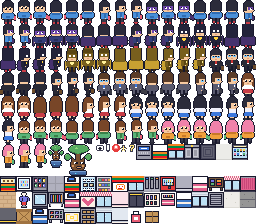
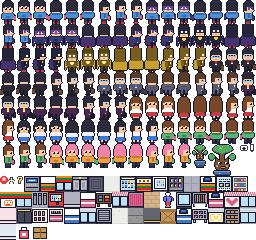
Add streaks, boss pervs, rotating goals, and a daily bounty
Consecutive catches build a streak that multiplies XP and yen up to
2x at five in a row; an escape resets it. Every tenth perv is a boss:
hat and purple suit, a shorter Recording window, faster and twitchier in
the chase, triple reward, announced with a wanted toast when he walks
in. Three mini-goals from a pool of eight sit in the HUD and rotate as
they clear, each paying yen and XP; a daily bounty of fifteen catches
persists in the profile and pays out once per day. Goals only draw
from objectives the player can currently achieve (no box goal without
Strength, no hall goal off arena maps).

Claude-Session: https://claude.ai/code/session_0195Pq8RiCy83eEXiSyRsNrP

diff --git a/src/game/goals.ts b/src/game/goals.ts
@@ -1,0 +1,74 @@
+/**
+ * Engagement layer: catch streaks, three rotating mini-goals, and one daily bounty.
+ * Game code reports events; this module scores them and hands out rewards.
+ */
+import { G } from './state';
+import { L, fmt, lang } from '../i18n';
+import { toast } from './world';
+import { sfx } from '../core/audio';
+import { cur } from './maps';
+import { pick } from '../core/rng';
+
+export type CatchEvent = { secsLeft: number; boss: boolean; byBall: boolean; hops: number; inArena: boolean; streak: number };
+export type GoalEvent = { kind: 'catch'; data: CatchEvent } | { kind: 'hop'; hopsThisChase: number } | { kind: 'smash' };
+
+export interface GoalDef { id: string; target: number; reward: number; xp: number; applies: () => boolean; step: (e: GoalEvent) => number }
+export interface Goal { def: GoalDef; progress: number }
+
+const always = () => true;
+export const POOL: GoalDef[] = [
+  { id: 'catch3', target: 3, reward: 300, xp: 50, applies: always, step: (e) => (e.kind === 'catch' ? 1 : 0) },
+  { id: 'fast', target: 1, reward: 400, xp: 60, applies: always, step: (e) => (e.kind === 'catch' && e.data.secsLeft >= 12 ? 1 : 0) },
+  { id: 'hop3', target: 1, reward: 300, xp: 50, applies: always, step: (e) => (e.kind === 'hop' && e.hopsThisChase >= 3 ? 1 : 0) },
+  { id: 'smash2', target: 2, reward: 350, xp: 60, applies: () => G.stats.strength >= 1 && (G.level >= 3 || cur.obstacleTier >= 1), step: (e) => (e.kind === 'smash' ? 1 : 0) },
+  { id: 'boss', target: 1, reward: 600, xp: 120, applies: always, step: (e) => (e.kind === 'catch' && e.data.boss ? 1 : 0) },
+  { id: 'ball', target: 1, reward: 600, xp: 80, applies: () => G.inv.ball > 0 || G.yen >= 1000, step: (e) => (e.kind === 'catch' && e.data.byBall ? 1 : 0) },
+  { id: 'streak3', target: 1, reward: 500, xp: 80, applies: always, step: (e) => (e.kind === 'catch' && e.data.streak >= 3 ? 1 : 0) },
+  { id: 'arena', target: 1, reward: 500, xp: 80, applies: () => !!cur.arena, step: (e) => (e.kind === 'catch' && e.data.inArena ? 1 : 0) },
+];
+
+export const DAILY_TARGET = 15;
+export const DAILY_REWARD = 1500;
+export type Daily = { day: string; progress: number; done: boolean };
+export const today = (): string => new Date().toISOString().slice(0, 10);
+export function freshDaily(): Daily { return { day: today(), progress: 0, done: false }; }
+
+export const goals = { active: [] as Goal[], daily: freshDaily() };
+
+function drawGoal(exclude: Set<string>): Goal | null {
+  const cands = POOL.filter((d) => !exclude.has(d.id) && d.applies());
+  if (!cands.length) return null;
+  return { def: pick(cands), progress: 0 };
+}
+export function resetGoals(): void {
+  goals.active = [];
+  const used = new Set<string>();
+  for (let i = 0; i < 3; i++) { const g = drawGoal(used); if (!g) break; used.add(g.def.id); goals.active.push(g); }
+  if (goals.daily.day !== today()) goals.daily = freshDaily();
+}
+export function goalText(g: Goal): string { return fmt((L.goals as Record<string, string>)[g.def.id], { t: g.def.target }) + (g.def.target > 1 ? ` ${g.progress}/${g.def.target}` : ''); }
+export function dailyText(): string { return `${L.daily}: ${fmt(L.goals.daily, { t: DAILY_TARGET })} ${Math.min(goals.daily.progress, DAILY_TARGET)}/${DAILY_TARGET}` + (goals.daily.done ? ' ✓' : ''); }
+
+/** Report an event; returns yen + xp awarded so the caller can bank it. */
+export function report(e: GoalEvent, award: (yen: number, xp: number) => void): void {
+  const used = new Set(goals.active.map((g) => g.def.id));
+  for (let i = 0; i < goals.active.length; i++) {
+    const g = goals.active[i];
+    g.progress += g.def.step(e);
+    if (g.progress >= g.def.target) {
+      award(g.def.reward, g.def.xp); toast(fmt(L.goal_done, { y: g.def.reward }), 2200); sfx('level');
+      const next = drawGoal(used);
+      if (next) { used.add(next.def.id); goals.active[i] = next; } else goals.active.splice(i, 1);
+    }
+  }
+  if (e.kind === 'catch' && !goals.daily.done) {
+    if (goals.daily.day !== today()) goals.daily = freshDaily();
+    goals.daily.progress++;
+    if (goals.daily.progress >= DAILY_TARGET) { goals.daily.done = true; award(DAILY_REWARD, 300); toast(fmt(L.daily_done, { y: DAILY_REWARD }), 3000); sfx('catch'); }
+  }
+}
+
+/** Streak multiplier on XP and yen: 1x, 1.25x, 1.5x, 1.75x, 2x at five in a row. */
+export const streakMult = (streak: number): number => Math.min(2, 1 + 0.25 * Math.max(0, streak - 1));
+export const bossName = (i: number): string => L.boss_names[i % L.boss_names.length];
+export const langKey = (): 'en' | 'ja' => lang;

diff --git a/src/game/player.ts b/src/game/player.ts
@@ -4,7 +4,8 @@ import { held, consumeTap } from '../core/input';
 import { sfx } from '../core/audio';
 import { L, fmt } from '../i18n';
 import { ch, solidForPlayer, obstacleAt, entAt, stepTo, updMove, manh, toast, face } from './world';
-import { startChase, endChase } from './chase';
+import { startChase, endChase, gainXp } from './chase';
+import { report } from './goals';
 import { openShop } from '../ui/overlays';
 
 export function playerAction(): void {
@@ -15,11 +16,11 @@ export function playerAction(): void {
   if (o) {
     if (o.type === 'bag') {
       const lx = fx + P.fx, ly = fy + P.fy;
-      if (!solidForPlayer(lx, ly) && !obstacleAt(lx, ly) && !entAt(lx, ly)) { stepTo(P, lx, ly, 260); P.jump = true; sfx('jump'); }
+      if (!solidForPlayer(lx, ly) && !obstacleAt(lx, ly) && !entAt(lx, ly)) { stepTo(P, lx, ly, 260); P.jump = true; sfx('jump'); hopped(); }
       return;
     }
     const need = OBSTACLE_STR[o.type];
-    if (G.stats.strength >= need) { G.obstacles = G.obstacles.filter((x) => x !== o); toast(L.smash, 900); sfx('smash'); G.shake = 150; }
+    if (G.stats.strength >= need) { G.obstacles = G.obstacles.filter((x) => x !== o); toast(L.smash, 900); sfx('smash'); G.shake = 150; if (G.chase) G.chase.smashes++; report({ kind: 'smash' }, bank); }
     else { toast(fmt(L.heavy, { n: need }), 1500); sfx('notyet'); }
     return;
   }
@@ -28,6 +29,9 @@ export function playerAction(): void {
   const live = near.find((e) => e.state === 'live'); if (live) { startChase(live); return; }
   if (near.length) { toast(L.notyet, 1400); sfx('notyet'); }
 }
+
+const bank = (y: number, x: number): void => { G.yen += y; gainXp(x); };
+function hopped(): void { if (G.chase) { G.chase.hops++; report({ kind: 'hop', hopsThisChase: G.chase.hops }, bank); } }
 
 export function throwBall(): void {
   if (!G.chase) return;
@@ -41,7 +45,7 @@ export function updBall(dt: number): void {
   const tx = Math.floor((b.x + 4) / TW), ty = Math.floor((b.y + 4) / TW);
   const pv = c.perv;
   if (ch(tx, ty) !== '.' || b.d > 7 * TW) { G.ball = null; return; }
-  if (Math.abs(b.x + 4 - (pv.px + 8)) < 9 && Math.abs(b.y + 4 - (pv.py + 4)) < 12) { G.ball = null; toast(L.ball_hit, 1200); endChase(true); }
+  if (Math.abs(b.x + 4 - (pv.px + 8)) < 9 && Math.abs(b.y + 4 - (pv.py + 4)) < 12) { G.ball = null; toast(L.ball_hit, 1200); c.byBall = true; endChase(true); }
 }
 
 export function updPlayer(dt: number): void {
@@ -58,7 +62,7 @@ export function updPlayer(dt: number): void {
   const ob = obstacleAt(nx, ny);
   if (ob && ob.type === 'bag' && G.chase && G.chase.juice) {
     const lx = nx + dx, ly = ny + dy;
-    if (!solidForPlayer(lx, ly) && !obstacleAt(lx, ly) && !entAt(lx, ly)) { stepTo(P, lx, ly, 220); P.jump = true; sfx('jump'); return; }
+    if (!solidForPlayer(lx, ly) && !obstacleAt(lx, ly) && !entAt(lx, ly)) { stepTo(P, lx, ly, 220); P.jump = true; sfx('jump'); hopped(); return; }
   }
   if (!solidForPlayer(nx, ny) && !ob && !e) {
     stepTo(P, nx, ny, playerMs()); G.tut.moved++;

diff --git a/src/game/chase.ts b/src/game/chase.ts
@@ -1,6 +1,7 @@
 import { G, type Ent, playerMs, xpNeed } from './state';
 import { checkCostume } from './costume';
 import { saveProfile } from './profile';
+import { report, streakMult } from './goals';
 import { CHASE_MS } from './const';
 import { cur, dims, unlockMap } from './maps';
 import { pervParams } from './difficulty';
@@ -18,7 +19,8 @@ import { haptic } from '../core/input';
 export function startChase(p: Ent): void {
   const P = pervParams(G.level);
   p.chasing = true; p.path = []; p.state = 'chase';
-  G.chase = { perv: p, t: CHASE_MS, reroll: 0, obsT: 0, P, juice: false, vita: false };
+  if (p.boss) { P.speed += 0.1; P.rerollSec *= 0.6; }
+  G.chase = { perv: p, t: CHASE_MS, reroll: 0, obsT: 0, P, juice: false, vita: false, hops: 0, smashes: 0, byBall: false };
   if (G.inv.juice > 0) { G.inv.juice--; G.chase.juice = true; toast(L.used_juice, 1500); }
   if (G.inv.vita > 0) { G.inv.vita--; G.chase.vita = true; toast(L.used_vita, 1500); }
   if (cur.arena) { G.arena = true; G.arenaT = 0; toast(L.arena_open, 2000); }
@@ -105,19 +107,27 @@ export function endChase(caught: boolean): void {
   const c = G.chase; if (!c) return;
   const p = c.perv;
   G.chase = null; G.obstacles = []; G.ball = null; music.play('store');
+  const inArena = ARENA_TILES.includes(ch(G.player.tx, G.player.ty));
   if (G.arena) closeArena(p, caught);
   if (caught) {
     p.dead = true; G.catches++; G.totalCatches++;
     sfx('catch'); haptic(60);
     G.freeze = 1100; G.stamp = { t: 0, txt: L.caught }; G.shake = 300;
+    G.streak++; G.bestStreak = Math.max(G.bestStreak, G.streak);
     const secs = Math.round(c.t / 1000);
-    gainXp(100 + secs * 5);
-    const yen = 100 + secs * 20; G.yen += yen; toast(fmt(L.reward, { y: yen }), 1800);
+    const mult = streakMult(G.streak) * (p.boss ? 3 : 1);
+    gainXp(Math.round((100 + secs * 5) * mult));
+    const yen = Math.round((100 + secs * 20) * mult); G.yen += yen; toast(fmt(L.reward, { y: yen }), 1800);
+    if (G.streak >= 2) toast(fmt(L.streak, { n: G.streak, m: streakMult(G.streak).toFixed(2).replace(/\.?0+$/, '') }), 1800);
+    if (p.boss) toast(L.boss_caught, 2200);
+    report({ kind: 'catch', data: { secsLeft: secs, boss: p.boss, byBall: c.byBall, hops: c.hops, inArena, streak: G.streak } }, (y, x) => { G.yen += y; gainXp(x); });
     if (G.catches === cur.gate && !G.elevOpen && G.mode === 'story') { G.elevOpen = true; unlockMap(G.mapIndex + 1); toast(L.elev, 2500); sfx('level'); }
     if (G.tutorial && p.scripted) G.tut.step = 8;
     checkCostume(); saveProfile();
   } else {
     G.escapes++; toast(L.escaped, 1800); sfx('escape');
+    if (G.streak >= 2) toast(L.streak_lost, 1600);
+    G.streak = 0;
     p.chasing = false; p.path = []; p.ms = 170; p.leaving = true; setState(p, 'finish');
   }
 }

diff --git a/src/game/state.ts b/src/game/state.ts
@@ -17,7 +17,7 @@ export interface Ent {
   target: Ent | null; jump: boolean; fx: number; fy: number;
   leaving: boolean; bailT: number; scripted: boolean; age: number; looking: boolean;
   chasing: boolean; dead: boolean; onElev: boolean;
-  dir: Facing;
+  dir: Facing; boss: boolean; bossId: number;
 }
 export type Facing = 'down' | 'up' | 'side';
 
@@ -25,7 +25,7 @@ export type ObstacleType = 'bag' | 'box' | 'crate';
 export type Obstacle = { x: number; y: number; type: ObstacleType };
 /** Strength needed to smash each obstacle; bags are hopped instead. */
 export const OBSTACLE_STR: Record<ObstacleType, number> = { bag: 0, box: 1, crate: 2 };
-export type Chase = { perv: Ent; t: number; reroll: number; obsT: number; P: PervParams; juice: boolean; vita: boolean };
+export type Chase = { perv: Ent; t: number; reroll: number; obsT: number; P: PervParams; juice: boolean; vita: boolean; hops: number; smashes: number; byBall: boolean };
 export type Ball = { x: number; y: number; dx: number; dy: number; d: number };
 export type TextBox = { pages: Page[]; i: number; shown: number; onDone?: () => void };
 export type Toast = { txt: string; t: number };
@@ -46,6 +46,7 @@ export interface Game {
   spawnT: number; time: number; timeLeft: number; lastRun: { catches: number; level: number } | null;
   totalCatches: number; costume: number; mapIndex: number;
   arena: boolean; arenaT: number; arenaTiles: Pt[];
+  streak: number; bestStreak: number; pervSpawns: number;
 }
 
 export function mk(kind: Kind, sprite: string, tx: number, ty: number): Ent {
@@ -54,7 +55,7 @@ export function mk(kind: Kind, sprite: string, tx: number, ty: number): Ent {
     moving: false, from: { x: tx, y: ty }, to: { x: tx, y: ty }, t: 0, ms: 170,
     flip: false, frame: 0, animT: 0, path: [], goal: null, waitT: 0, idleT: 0,
     state: 'enter', st: 0, timer: 0, dwell: 0, target: null, jump: false, fx: 0, fy: 1,
-    leaving: false, bailT: 0, scripted: false, age: 0, looking: false, chasing: false, dead: false, onElev: false, dir: 'down',
+    leaving: false, bailT: 0, scripted: false, age: 0, looking: false, chasing: false, dead: false, onElev: false, dir: 'down', boss: false, bossId: 0,
   };
 }
 
@@ -67,6 +68,7 @@ export function newGame(): Game {
     yen: 0, inv: { ball: 0, juice: 0, vita: 0 }, floor: 1, elevOpen: false,
     tutorial: true, tut: { step: 0, moved: 0, done: false, perv: null, shown: new Set() }, freeze: 0, stamp: null, shake: 0,
     spawnT: 2000, time: 0, timeLeft: 0, lastRun: null, totalCatches: 0, costume: 0, mapIndex: 0, arena: false, arenaT: 0, arenaTiles: [],
+    streak: 0, bestStreak: 0, pervSpawns: 0,
   };
 }
 

diff --git a/src/game/loop.ts b/src/game/loop.ts
@@ -14,6 +14,8 @@ import { openPick, openEnd, openResult, $ } from '../ui/overlays';
 import { L, fmt, lang } from '../i18n';
 import { audioInit, music } from '../core/audio';
 import { loadProfile, applyProfile, saveProfile } from './profile';
+import { resetGoals, goals, bossName } from './goals';
+import { sfx } from '../core/audio';
 
 export function startGame(mode: 'story' | 'time', mapIndex = 0): void {
   loadLayout(Math.min(mapIndex, unlockedMaps() - 1)); refit();
@@ -23,8 +25,9 @@ export function startGame(mode: 'story' | 'time', mapIndex = 0): void {
   G.ents = []; G.obstacles = []; G.catches = 0; G.escapes = 0; G.pendingLevel = 0;
   G.elevOpen = false; G.chase = null; G.box = null; G.ball = null; G.arena = false;
   G.floor = 1; G.toasts = []; G.freeze = 0; G.stamp = null;
-  applyProfile(loadProfile());
+  const prof = loadProfile(); applyProfile(prof); if (prof.daily) goals.daily = prof.daily;
   G.tut = { step: 0, moved: 0, done: !G.tutorial, perv: null, shown: new Set() };
+  G.streak = 0; G.pervSpawns = 0; resetGoals();
   G.costume = costumeTier(G.level, G.totalCatches);
   G.player = mk('player', COSTUME_SPRITES[G.costume], cur.start.x, cur.start.y); G.player.fy = -1; G.player.dir = 'up';
   G.bonsai = mk('bonsai', 'bonsai', cur.start.x - 1, cur.start.y);
@@ -49,7 +52,13 @@ function updSpawner(dt: number): void {
   if (G.ents.length >= cur.maxNpc) return;
   if (n('target') < cur.targets) { spawnNpc('target', pick(['target', 'shopper3'])); return; }
   const wantPervs = Math.max(G.mode === 'time' ? 3 : 0, Math.round(P.pervs));
-  if (n('perv') < wantPervs && !(G.tutorial && !G.tut.done)) { const p = spawnNpc('perv', pick(['perv', 'perv2'])); p.dwell = rnd(45000, 90000); return; }
+  if (n('perv') < wantPervs && !(G.tutorial && !G.tut.done)) {
+    G.pervSpawns++;
+    const boss = G.pervSpawns % 10 === 0;
+    const p = spawnNpc('perv', boss ? 'boss' : pick(['perv', 'perv2'])); p.dwell = rnd(45000, 90000);
+    if (boss) { p.boss = true; p.bossId = Math.floor(G.pervSpawns / 10) - 1; toast(fmt(L.boss_wanted, { n: bossName(p.bossId) }), 3000); sfx('chase'); }
+    return;
+  }
   if (n('shopper') < 2) spawnNpc('shopper', pick(['shopper1', 'shopper2']));
 }
 

diff --git a/src/ui/draw.ts b/src/ui/draw.ts
@@ -7,6 +7,7 @@ import { cam } from '../core/camera';
 import { ctx, spr, text, otext } from '../core/render';
 import { L, lang } from '../i18n';
 import { rint } from '../core/rng';
+import { goals, goalText, dailyText, streakMult } from '../game/goals';
 
 function iconVisible(e: Ent): 'full' | 'hint' | null {
   if (e.scripted || e.chasing) return 'full';
@@ -50,6 +51,7 @@ export function drawWorld(): void {
     const v = iconVisible(e);
     let ic: string | null = null;
     if (e.chasing) ic = 'icon_finishing'; else if (e.bailT > 0) ic = 'bang'; else if (PERV_ICON[e.state]) ic = PERV_ICON[e.state];
+    if (e.boss) otext('★', e.px + 14, e.py - 22, '#ffe066', 'center');
     if (ic === 'bang') otext('!', e.px + 8, e.py - 20, '#ffe066', 'center');
     else if (ic && v === 'full') {
       let by = Math.round(Math.sin(G.time / 180));
@@ -76,7 +78,11 @@ export function drawHud(): void {
   if (narrow) text(`B${G.inv.ball} J${G.inv.juice} V${G.inv.vita}`, 3, vh - 11, '#c8c8d2');
   if (G.mode === 'time') { const tl = Math.ceil(G.timeLeft / 1000); otext(`${L.hud_time} ${tl}`, vw / 2, 14, tl <= 10 ? '#ff5a5a' : '#fff', 'center'); }
   if (G.chase) { const s = (G.chase.t / 1000).toFixed(1); otext(`${L.hud_timer} ${s}`, vw / 2, G.mode === 'time' ? 26 : 14, G.chase.t < 5000 ? '#ff5a5a' : '#ffe066', 'center'); }
-  let ty = G.mode === 'time' ? 40 : 28;
+  // goals strip, left edge under the bar
+  const lines = G.mode === 'time' ? [] : [dailyText(), ...goals.active.slice(0, narrow ? 1 : 3).map(goalText)];
+  let gy = 14; for (const ln of lines) { otext(ln, 3, gy, '#c8c8d2'); gy += 11; }
+  if (G.streak >= 2) otext(`×${streakMult(G.streak).toFixed(2).replace(/\.?0+$/, '')}  ${G.streak}`, vw - 3, 14, '#ffe066', 'right');
+  let ty = G.mode === 'time' ? 40 : Math.max(28, gy + 2);
   for (const t of G.toasts) { otext(t.txt, vw / 2, ty, '#fff', 'center'); ty += 12; }
   if (G.stamp) {
     const k = Math.min(1, G.stamp.t / 200);

diff --git a/src/i18n/ja.ts b/src/i18n/ja.ts
@@ -3,7 +3,11 @@ import type { Strings, Page, ShopItem } from './en';
 // Kana only. scripts/check-kana.mjs fails the build if a kanji sneaks in.
 const ja: Strings = {
   title: 'タイホ!!', sub: 'コンビニ ヒーロー', start: 'スタート', lang: 'ことば: にほんご', tut: 'チュートリアル: ', on: 'ON', off: 'OFF',
-  sound: 'おと: ', profile_line: 'Lv{l}   つうさん {c}にん タイホ   ¥{y}', reset: 'セーブを けす', reset_confirm: 'もういちど おすと ぜんぶ きえる',
+  sound: 'おと: ',
+  streak: 'れんぞく {n}  ×{m}', streak_lost: 'れんぞく とぎれた…', boss_wanted: 'おたずねもの: {n} が はいってきた!', boss_caught: 'ボス タイホ! ほうしゅう 3ばい!',
+  boss_names: ['あせだく おじさん', 'カバンの おとこ', 'メガネの ひと', 'サラリーマン ゼロ'],
+  goal_done: 'ミッション クリア! +¥{y}', daily: 'きょう', daily_done: 'きょうの ミッション たっせい! +¥{y}',
+  goals: { catch3: 'ヘンタイを {t}にん タイホ', fast: 'のこり12びょう いじょうで タイホ', hop3: '1かいの ついせきで ふくろ3かい ジャンプ', smash2: 'はこを {t}こ こわす', boss: 'ボスを タイホ', ball: 'ホカクボールで タイホ', streak3: '3れんぞく タイホ', arena: 'うらの つうろで タイホ', daily: 'きょう {t}にん タイホ' }, profile_line: 'Lv{l}   つうさん {c}にん タイホ   ¥{y}', reset: 'セーブを けす', reset_confirm: 'もういちど おすと ぜんぶ きえる',
   keys: 'やじるし / WASD で いどう。 Z, スペース, Enter = A。 X か Shift = B (なげる)。',
   hud_caught: 'タイホ', hud_lv: 'Lv', hud_timer: 'のこり', hud_time: 'のこり',
   notyet: 'まだだ。あかい マークを まて。', caught: 'タイホ!!', escaped: 'ニゲラレタ…', levelup: 'レベルアップ!',

diff --git a/src/i18n/en.ts b/src/i18n/en.ts
@@ -3,7 +3,11 @@ export type ShopItem = [name: string, desc: string, price: number];
 
 const en = {
   title: 'TAIHO!!', sub: 'Konbini Vigilante', start: 'START', lang: 'Language: English', tut: 'Tutorial: ', on: 'ON', off: 'OFF',
-  sound: 'Sound: ', profile_line: 'Lv{l}   {c} career catches   ¥{y}', reset: 'Reset save', reset_confirm: 'Tap again to erase everything',
+  sound: 'Sound: ',
+  streak: 'STREAK {n}  ×{m}', streak_lost: 'Streak lost...', boss_wanted: 'WANTED: {n} just walked in!', boss_caught: 'BOSS DOWN! Triple reward!',
+  boss_names: ['Mr. Sweaty', 'The Briefcase', 'Glasses Guy', 'Salaryman Zero'],
+  goal_done: 'Goal clear! +¥{y}', daily: 'DAILY', daily_done: 'Daily bounty done! +¥{y}',
+  goals: { catch3: 'Catch {t} pervs', fast: 'Catch one with 12s+ left', hop3: 'Hop 3 bags in one chase', smash2: 'Smash {t} boxes', boss: 'Catch a boss', ball: 'Catch one with a Capture Ball', streak3: '3 catches in a row', arena: 'Catch one in the back halls', daily: 'Catch {t} today' }, profile_line: 'Lv{l}   {c} career catches   ¥{y}', reset: 'Reset save', reset_confirm: 'Tap again to erase everything',
   keys: 'Arrows / WASD to move.  Z, Space, Enter = A.  X or Shift = B (throw).',
   hud_caught: 'CAUGHT', hud_lv: 'Lv', hud_timer: 'ESCAPE IN', hud_time: 'TIME',
   notyet: 'Not yet. Wait for the red mark.', caught: 'TAIHO!!', escaped: 'He got away...', levelup: 'LEVEL UP!',

diff --git a/src/game/profile.ts b/src/game/profile.ts
@@ -2,7 +2,8 @@ import { G, type Stats, type Inv } from './state';
 import { api } from './api';
 
 /** Career progress that outlives a run. Kept on the device and mirrored to the cloud when an API is configured. */
-export interface Profile { v: 1; level: number; xp: number; stats: Stats; yen: number; inv: Inv; totalCatches: number; ts: number }
+import { goals, type Daily } from './goals';
+export interface Profile { v: 1; level: number; xp: number; stats: Stats; yen: number; inv: Inv; totalCatches: number; ts: number; daily?: Daily }
 
 const KEY = 'taiho_profile';
 export const blank = (): Profile => ({ v: 1, level: 1, xp: 0, stats: { speed: 0, detect: 0, strength: 0 }, yen: 0, inv: { ball: 0, juice: 0, vita: 0 }, totalCatches: 0, ts: 0 });
@@ -19,7 +20,7 @@ export function applyProfile(p: Profile): void {
   G.level = p.level; G.xp = p.xp; G.stats = { ...p.stats }; G.yen = p.yen; G.inv = { ...p.inv }; G.totalCatches = p.totalCatches;
 }
 export function snapshot(): Profile {
-  return { v: 1, level: G.level, xp: G.xp, stats: { ...G.stats }, yen: G.yen, inv: { ...G.inv }, totalCatches: G.totalCatches, ts: Date.now() };
+  return { v: 1, level: G.level, xp: G.xp, stats: { ...G.stats }, yen: G.yen, inv: { ...G.inv }, totalCatches: G.totalCatches, ts: Date.now(), daily: { ...goals.daily } };
 }
 let pushTimer: number | null = null;
 export function saveProfile(): void {

diff --git a/src/game/ai.ts b/src/game/ai.ts
@@ -59,7 +59,7 @@ export function setState(e: Ent, s: Ent['state']): void {
   if (s === 'nothing') e.timer = sc ? 1500 : rnd(2500, 6000) * pace;
   if (s === 'scoping') e.timer = sc ? 4000 : rnd(3000, 6000) * pace;
   if (s === 'setup') e.timer = sc ? 2500 : rnd(1500, 3000) * pace;
-  if (s === 'live') e.timer = sc ? 30000 : P.windowSec * 1000;
+  if (s === 'live') e.timer = sc ? 30000 : P.windowSec * 1000 * (e.boss ? 0.7 : 1);
   if (G.tutorial && sc) { if (s === 'scoping') tutBox('t4'); if (s === 'setup') tutBox('t5'); if (s === 'live') tutBox('t6'); }
 }
 

diff --git a/tools/characters.py b/tools/characters.py
@@ -85,6 +85,8 @@ def head_front(c, ch, frame):
             c.rect(3, y+6, 12, y+9, m); c.rect(5, y+7, 6, y+8, W); c.rect(9, y+7, 10, y+8, W); c.p(5, y+7, E); c.p(10, y+7, E)
     if ch.get('blush'): c.p(4, y+9, SKIN_S); c.p(11, y+9, SKIN_S)
     c.rect(7, y+10, 8, y+10, SKIN_S)  # mouth
+    if ch.get('hat'):
+        h = ch['hat']; c.rect(4, y-1, 11, y+1, h); c.rect(5, y-2, 10, y-2, h); c.rect(2, y+2, 13, y+2, h); c.rect(5, y+1, 10, y+1, (60, 40, 40))
 
 def head_back(c, ch, frame):
     hair, style = ch['hair'], ch['style']
@@ -97,6 +99,8 @@ def head_back(c, ch, frame):
     if style == 'cowl':
         cw = ch['cowl']; c.rect(3, y, 12, y+11, cw); c.rect(5, y, 10, y, cw); c.p(4, y-1, cw); c.p(11, y-1, cw); c.p(4, y-2, cw); c.p(11, y-2, cw)
         c.rect(3, y+1, 3, y+1, None)
+    if ch.get('hat'):
+        h = ch['hat']; c.rect(4, y-1, 11, y+1, h); c.rect(5, y-2, 10, y-2, h); c.rect(2, y+2, 13, y+2, h)
 
 def head_side(c, ch, frame):
     """Facing right."""
@@ -118,6 +122,8 @@ def head_side(c, ch, frame):
         if ch.get('mask'): c.rect(8, y+6, 12, y+8, ch['mask']); c.rect(10, y+7, 11, y+8, W); c.p(11, y+7, E)
     c.p(13, y+9, SKIN)  # nose
     c.p(11, y+10, SKIN_S)
+    if ch.get('hat'):
+        h = ch['hat']; c.rect(5, y-1, 11, y+1, h); c.rect(6, y-2, 10, y-2, h); c.rect(3, y+2, 14, y+2, h)
 
 def body_front(c, ch, frame):
     o = ch['outfit']; col = ch['col']; bob = -1 if frame else 0; y = 13 + bob
@@ -228,6 +234,7 @@ CHARS = {
   # pervs
   'perv':  dict(style='slick', hair=(43,43,58), glasses=True, outfit='suit', acc='briefcase', col=dict(top=(42,42,53), tie=(200,50,50), pants=(42,42,53), shoe=(30,30,40), acc=(107,75,42))),
   'perv2': dict(style='slick', hair=(90,60,40), glasses=True, outfit='suit', acc='briefcase', col=dict(top=(90,90,110), tie=(60,120,220), pants=(90,90,110), shoe=(30,30,40), acc=(60,60,70))),
+  'boss':  dict(style='slick', hair=(43,43,58), glasses=True, hat=(50,40,60), outfit='suit', acc='briefcase', col=dict(top=(70,40,80), tie=(255,210,60), pants=(70,40,80), shoe=(30,30,40), acc=(30,30,40))),
   # targets
   'target':   dict(style='long', hair=(120,70,40), blush=True, outfit='blouse_skirt', col=dict(top=W, skirt=(200,60,70), pants=SKIN, shoe=(43,43,58))),
   'shopper3': dict(style='bob', hair=(43,43,58), blush=True, outfit='blouse_skirt', col=dict(top=(240,240,250), skirt=(60,120,220), pants=SKIN, shoe=(43,43,58))),
